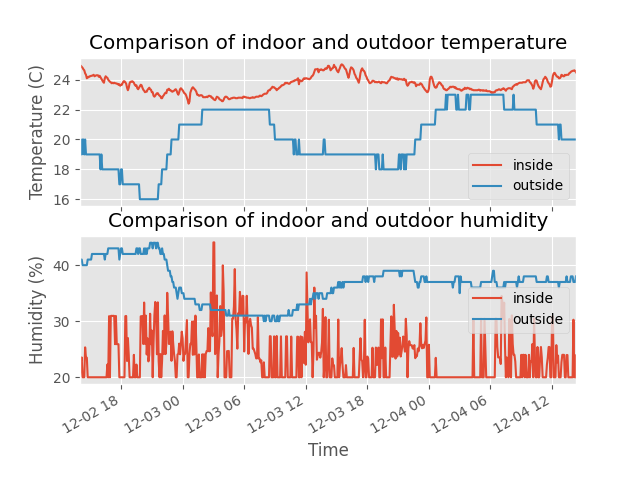
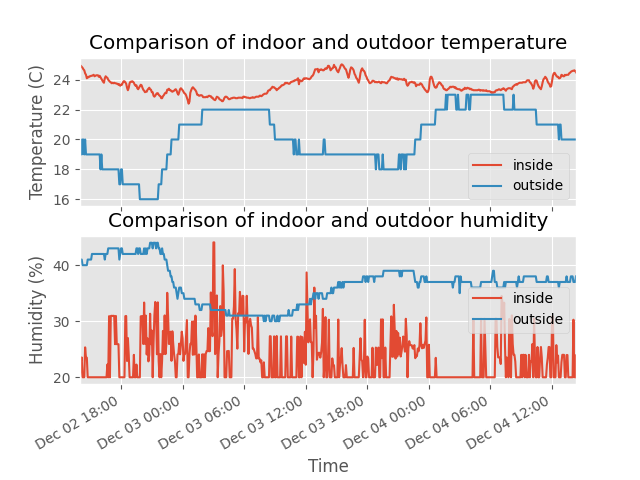
many graf changes

diff --git a/Project_02_Weather_Station/Project_02_Code_Development/Project_02_Modeling.py b/Project_02_Weather_Station/Project_02_Code_Development/Project_02_Modeling.py
@@ -3,6 +3,7 @@ import numpy as np
 from Project_02_Library import *
 import datetime
 from scipy.optimize import curve_fit
+import matplotlib.dates as mdates
 
 # Initialize the sensors
 sensors_id = {"s1t": 40, "s2t": 41, "s3t": 42, "s1h": 43, "s2h": 44, "s3h": 45}
@@ -63,22 +64,42 @@ for s in range(len(sensors_data["s1h"])):
 
 # plot the data
 def plot_avg_temp_hum():
+    plt.style.use('ggplot')
     plt.subplot(2, 1, 1)
     # plt.errorbar(time, mean_temp, yerr=std_temp, fmt='o', ecolor='green', capsize=3)
-    plt.plot(time, mean_temp, label="avg")
+    plt.plot(time, mean_temp, label="avg", color="black")
     # plt.fill_between(time, min_temp, max_temp, alpha= 0.2, label="min/max")
     plt.ylabel("Temperature (C)")   
     plt.xlabel("Time")
     plt.title("Temperature and Humidity in the room")
+    maximum = np.max(mean_temp)
+    minimum = np.min(mean_temp)
+    health = 23
+    plt.plot(time, [maximum for x in time], label="max", linestyle='dashed', color='red')
+    plt.plot(time, [minimum for x in time], label="min", linestyle='dashed', color='blue')
+    plt.plot(time, [health for x in time], label="ideal state", linestyle='dashed', color='green')
+    plt.legend()
+    plt.xlim(time[0], time[-1])
+
     plt.subplot(2, 1, 2)
     # plt.errorbar(time, mean_hum, yerr=std_hum, fmt='o', ecolor='green', capsize=3)
-    plt.plot(time, mean_hum, label="avg")
+    plt.plot(time, mean_hum, label="avg", color="black")
     plt.ylabel("Humidity (%)")
     plt.xlabel("Time")
 
+    maximum = np.max(mean_hum)
+    minimum = np.min(mean_hum)
+    health = 45
+    plt.plot(time, [maximum for x in time], label="max", linestyle='dashed', color='red')
+    plt.plot(time, [minimum for x in time], label="min", linestyle='dashed', color='blue')
+    plt.plot(time, [health for x in time], label="ideal state", linestyle='dashed', color='green')
+    plt.legend()
+
     plt.xlim(time[0], time[-1])
     plt.gcf().autofmt_xdate()
+    plt.gca().xaxis.set_major_formatter(mdates.DateFormatter('%b %d %H:%M'))
     plt.show()
+
 # plot_avg_temp_hum()
 
 # plot humidity sensor data
@@ -102,6 +123,7 @@ def get_indoor_humidity_data():
 
 # New function to plot average temperature with error bars every 30 data points and minimum and maximum
 def plot_avg_temp_with_error():
+    plt.style.use('ggplot')
     plt.errorbar(time[::30], mean_temp[::30], yerr=std_temp[::30], fmt='o', ecolor='green', capsize=3, label="std")
     plt.fill_between(time, min_temp, max_temp, alpha=0.2, label="min/max")
     plt.plot(time, mean_temp, label="avg")
@@ -112,9 +134,27 @@ def plot_avg_temp_with_error():
     plt.legend()
     plt.xlim(time[0], time[-1])
     plt.gcf().autofmt_xdate()
+    plt.gca().xaxis.set_major_formatter(mdates.DateFormatter('%b %d %H:%M'))
     plt.show()
 
 # plot_avg_temp_with_error()
+
+def plot_avg_hum_with_error():
+    plt.style.use('ggplot')
+    plt.errorbar(time[::30], mean_hum[::30], yerr=std_hum[::30], fmt='o', ecolor='green', capsize=3, label="std")
+    plt.fill_between(time, min_hum, max_hum, alpha=0.2, label="min/max")
+    plt.plot(time, mean_hum, label="avg")
+    plt.ylabel("Humidity")
+    plt.xlabel("Time")
+    plt.title("Average Humidity with Error Bars")
+
+    plt.legend()
+    plt.xlim(time[0], time[-1])
+    plt.gcf().autofmt_xdate()
+    plt.gca().xaxis.set_major_formatter(mdates.DateFormatter('%b %d %H:%M'))
+    plt.show()
+
+# plot_avg_hum_with_error()
 
 def qudratic_model(x, a, b, c):
     return a*x**2 + b*x + c
@@ -164,35 +204,50 @@ def plot_regression_model(model):
 # plot_regression_model(qudratic_model)
 
 
-def visulise_tempreture():
+def visulise_temperature():
     plt.style.use('ggplot')
 
     fig = plt.figure(figsize=(10, 5))
     grid = plt.GridSpec(3, 4, figure=fig)
     ax1 = fig.add_subplot(grid[0:3, 0:3])
     ax1.set_xlim(time[0], time[-1])
+    ax1.set_ylim(20, 30)  # Set ylim to 20-30
     plt.gcf().autofmt_xdate()
+    plt.gca().xaxis.set_major_formatter(mdates.DateFormatter('%b %d %H:%M'))
     plt.ylabel("Temperature (C)")
     plt.xlabel("Time")
+    plt.title("Temperature in the room")
     ax1.plot(time, mean_temp, label="avg", color='blue')
     ax2 = fig.add_subplot(grid[0, 3])
     ax2.set_xlim(time[0], time[-1])
+    ax2.set_ylim(20, 30)  # Set ylim to 20-30
     ax2.xaxis.set_major_locator(plt.MaxNLocator(4))
+    plt.gca().xaxis.set_major_formatter(mdates.DateFormatter('%b %d %H:%M'))
     plt.gcf().autofmt_xdate()
     ax2.plot(time, sensors_data["s1t"], label="s1t", color='red')
     ax3 = fig.add_subplot(grid[1, 3])
     ax3.set_xlim(time[0], time[-1])
+    ax3.set_ylim(20, 30)  # Set ylim to 20-30
     ax3.xaxis.set_major_locator(plt.MaxNLocator(4))
     plt.gcf().autofmt_xdate()
+    plt.gca().xaxis.set_major_formatter(mdates.DateFormatter('%b %d %H:%M'))
     ax3.plot(time, sensors_data["s2t"], label="s2t", color='green')
     ax4 = fig.add_subplot(grid[2, 3])
     ax4.set_xlim(time[0], time[-1])
+    ax4.set_ylim(20, 30)  # Set ylim to 20-30
     ax4.xaxis.set_major_locator(plt.MaxNLocator(4))
     plt.gcf().autofmt_xdate()
+    plt.gca().xaxis.set_major_formatter(mdates.DateFormatter('%b %d %H:%M'))
     ax4.plot(time, sensors_data["s3t"], label="s3t", color='orange')
+    
+    ax1.legend()
+    ax2.legend()
+    ax3.legend()
+    ax4.legend()
+    
     plt.show()
 
-# visulise_tempreture()
+# visulise_temperature()
 
 def visulise_humidity():
     plt.style.use('ggplot')
@@ -203,6 +258,7 @@ def visulise_humidity():
     ax1.set_xlim(time[0], time[-1])
     ax1.set_ylim(0, 60)  # Set ylim to 0-60
     plt.gcf().autofmt_xdate()
+    plt.gca().xaxis.set_major_formatter(mdates.DateFormatter('%b %d %H:%M'))
     plt.ylabel("Humidity (%)")
     plt.xlabel("Time")
     plt.title("Humidity in the room")
@@ -211,6 +267,7 @@ def visulise_humidity():
     ax2.set_xlim(time[0], time[-1])
     ax2.set_ylim(0, 60)  # Set ylim to 0-60
     ax2.xaxis.set_major_locator(plt.MaxNLocator(4))
+    plt.gca().xaxis.set_major_formatter(mdates.DateFormatter('%b %d %H:%M'))
     plt.gcf().autofmt_xdate()
     ax2.plot(time, sensors_data["s1h"], label="s1h", color='red')
     ax3 = fig.add_subplot(grid[1, 3])
@@ -218,12 +275,14 @@ def visulise_humidity():
     ax3.set_ylim(0, 60)  # Set ylim to 0-60
     ax3.xaxis.set_major_locator(plt.MaxNLocator(4))
     plt.gcf().autofmt_xdate()
+    plt.gca().xaxis.set_major_formatter(mdates.DateFormatter('%b %d %H:%M'))
     ax3.plot(time, sensors_data["s2h"], label="s2h", color='green')
     ax4 = fig.add_subplot(grid[2, 3])
     ax4.set_xlim(time[0], time[-1])
     ax4.set_ylim(0, 60)  # Set ylim to 0-60
     ax4.xaxis.set_major_locator(plt.MaxNLocator(4))
     plt.gcf().autofmt_xdate()
+    plt.gca().xaxis.set_major_formatter(mdates.DateFormatter('%b %d %H:%M'))
     ax4.plot(time, sensors_data["s3h"], label="s3h", color='orange')
     
     ax1.legend()
@@ -333,12 +392,12 @@ def plot_outdoor_temp(yr, month, day1, day2):
 # plot_outdoor_temp(2023, 11, 19, 20)
 
 def compare_and_plot(y, m, d1,d2):
-    out_temp = get_server_sensor(2)[178:len(mean_temp)+178]
+    out_temp = get_server_sensor(2)[34:len(mean_temp)+34]
     # out_temp = get_data_from_date_and_time(y, m, d1-1, out_temp, 12, 24)
     # out_temp += get_data_from_date(y, m, d1, out_temp)
     # out_temp += get_data_from_date_and_time(y, m, d2, out_temp, 0, 12)
 
-    out_hum = get_server_sensor(5)[178:len(mean_hum)+178]
+    out_hum = get_server_sensor(5)[34:len(mean_hum)+34]
     # out_hum = get_data_from_date_and_time(y, m, d1-1, out_hum, 12, 24)
     # out_hum += get_data_from_date(y, m, d1, out_hum)
     # out_hum += get_data_from_date_and_time(y, m, d2, out_hum, 0, 12)
@@ -350,12 +409,15 @@ def compare_and_plot(y, m, d1,d2):
     plt.plot(time, mean_temp, label="inside")
     plt.plot(time, [x["value"] for x in out_temp], label="outside")
     # plt.plot([x["datetime"] for x in out_temp], [x["value"] for x in out_temp], label="outside")
+
+
     plt.ylabel("Temperature (C)")
     plt.xlabel("Time")
     plt.title("Comparison of indoor and outdoor temperature")
     plt.legend()
     plt.xlim(time[0], time[-1])
     plt.gcf().autofmt_xdate()
+    plt.gca().xaxis.set_major_formatter(mdates.DateFormatter('%b %d %H:%M'))
     plt.subplot(2, 1, 2)
     plt.plot(time, mean_hum, label="inside")
     plt.plot(time, [x["value"] for x in out_hum], label="outside")
@@ -365,6 +427,7 @@ def compare_and_plot(y, m, d1,d2):
     plt.legend()
     plt.xlim(time[0], time[-1])
     plt.gcf().autofmt_xdate()
+    plt.gca().xaxis.set_major_formatter(mdates.DateFormatter('%b %d %H:%M'))
     plt.show()
 
-compare_and_plot(2023, 12, 9, 10)
+# compare_and_plot(2023, 12, 9, 10)
